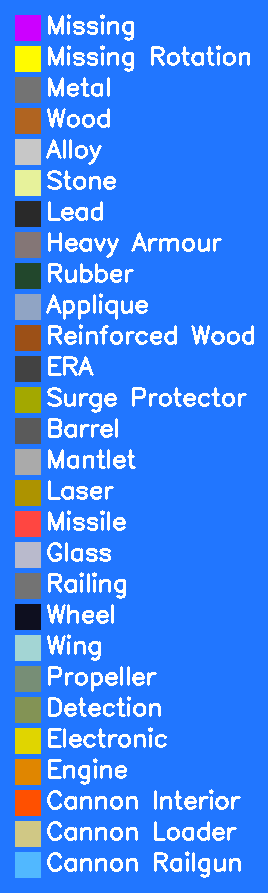
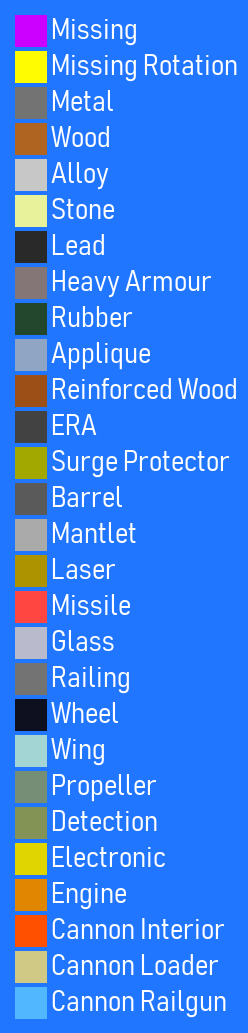
Squashed commit of the following:
commit 4e69f0b400e6d8fd3f87ea66303a877e0977d1f7
Author: FRUCHTBA3R <fefafi@netcologne.de>
Date:   Sat Jun 4 00:23:21 2022 +0200

    Better font

Changed region(s): [[0.0282, 0.0, 0.9597, 0.9978], [0.5645, 0.8768, 0.9315, 0.9978], [0.8185, 0.2419, 0.8468, 0.2721]]

diff --git a/legend_generator.py b/legend_generator.py
@@ -1,7 +1,13 @@
 import json
+import math
+
 import numpy as np
 import cv2
+from PIL import ImageFont, ImageDraw, Image
 
+# load font
+bahnschrift = ImageFont.truetype("bahnschrift.ttf", 30)
+bahnschrift.set_variation_by_axes([300, 85])
 
 def generate():
     """Generate legend image from materials configuration."""
@@ -10,19 +16,15 @@ def generate():
         materials = json.load(f)
 
     # font setup
-    fontFace = cv2.FONT_HERSHEY_SIMPLEX
-    fontScale = 0.8 #0.4375  # as seen in bp_to_img > __create_images
-
     max_width = 0
-    max_height = 0
-    max_baseline = 0
     for k in materials:
         # get size
-        (width, height), baseline = cv2.getTextSize(k, fontFace, fontScale, 2)
-        height += baseline
-        max_width = max(max_width, width)
-        max_height = max(max_height, height)
-        max_baseline = max(max_baseline, baseline)
+        max_width = max(max_width, bahnschrift.getlength(k, "L"))
+
+    max_width = math.ceil(max_width)
+    max_height, max_baseline = bahnschrift.getmetrics()
+    max_height += max_baseline
+
 
     # image setup
     front_space = 15
@@ -34,21 +36,23 @@ def generate():
                 front_space + max_height + 5 + max_width + back_space,
                 3)
     img = np.full(img_size, background_color, dtype=np.uint8)
+    pilimg = Image.fromarray(img[:, :, ::-1])
+    draw = ImageDraw.Draw(pilimg)
 
     # image creation
     current_y = top_space
     text_loc_x = front_space + max_height + 5
-    text_loc_y = max_height - max_baseline
     for k in materials:
         # fill square with material color
-        img[current_y:current_y+max_height, front_space:front_space+max_height] = materials[k]["Color"]
+        draw.rectangle((front_space, current_y, front_space+max_height, current_y+max_height),
+                       fill=tuple(materials[k]["Color"][::-1]))
         # put text
-        cv2.putText(img, k, (text_loc_x, current_y + text_loc_y), fontFace, fontScale, (255, 255, 255), 2)
+        draw.text((text_loc_x, current_y), k, font=bahnschrift)
         # next
         current_y += 5 + max_height
 
     # show / save
-    cv2.imwrite("legend.png", img)
+    pilimg.save("legend.png")
 
 
 if __name__ == "__main__":
